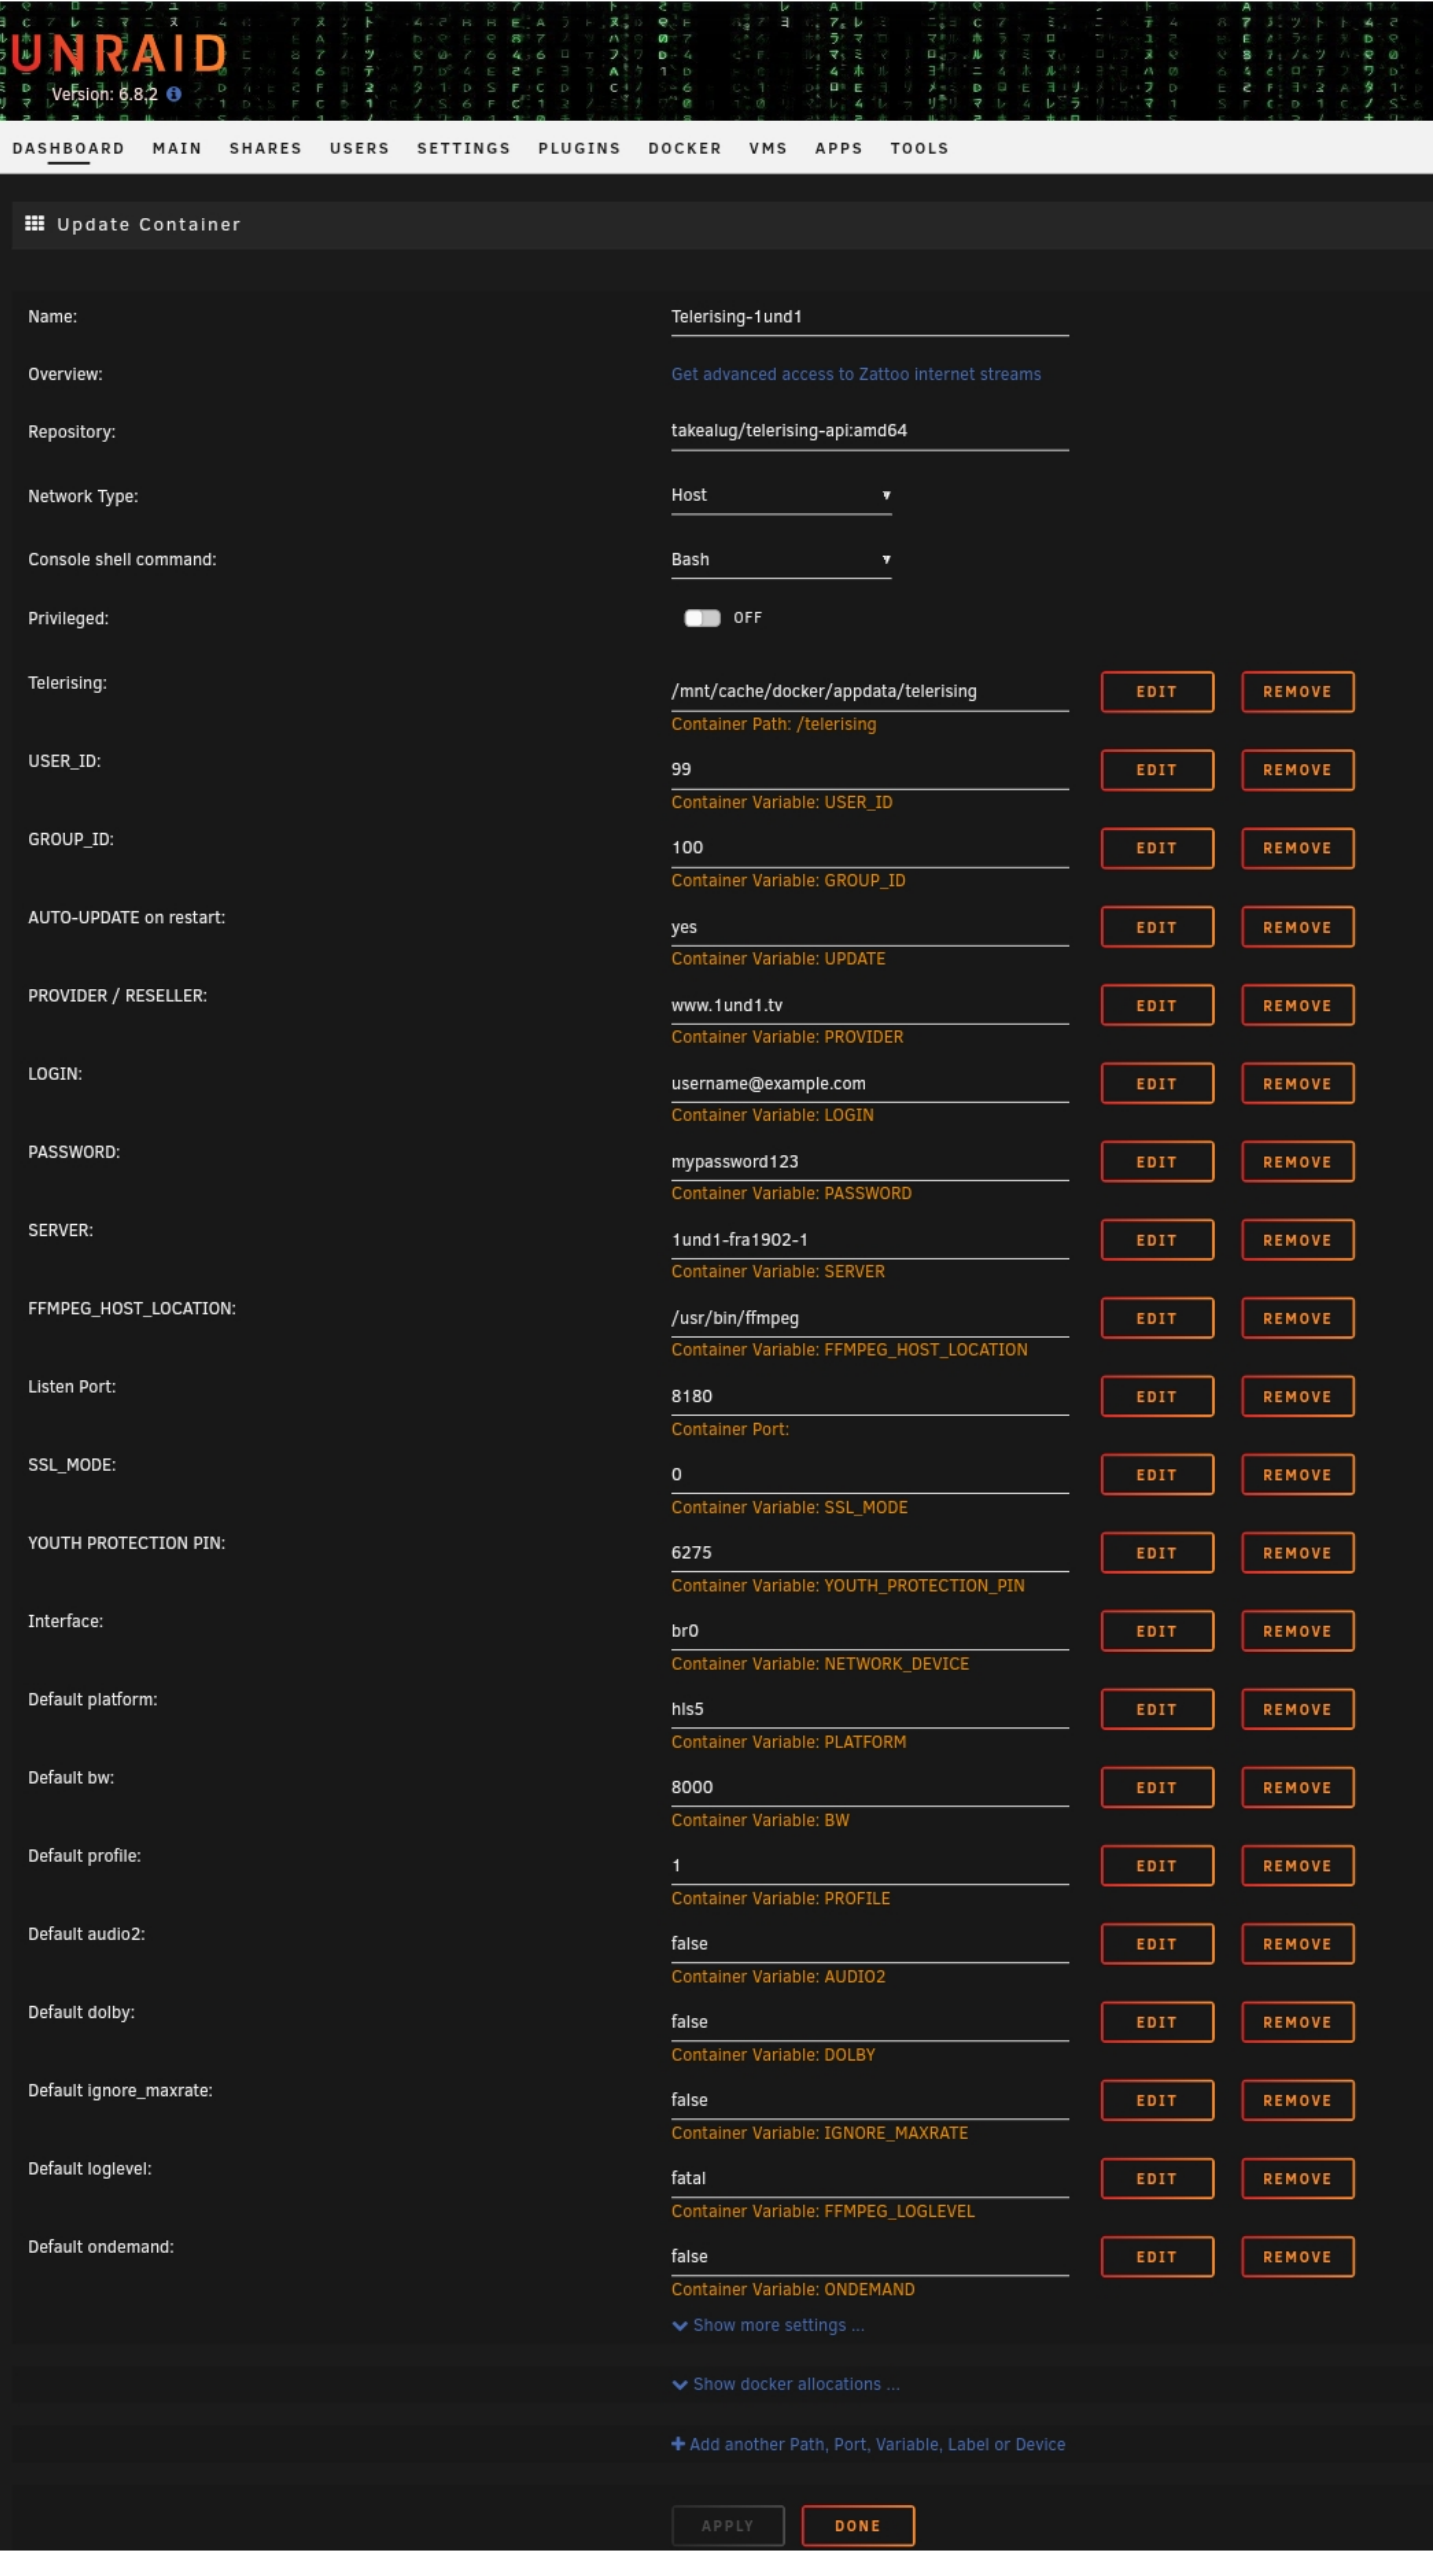
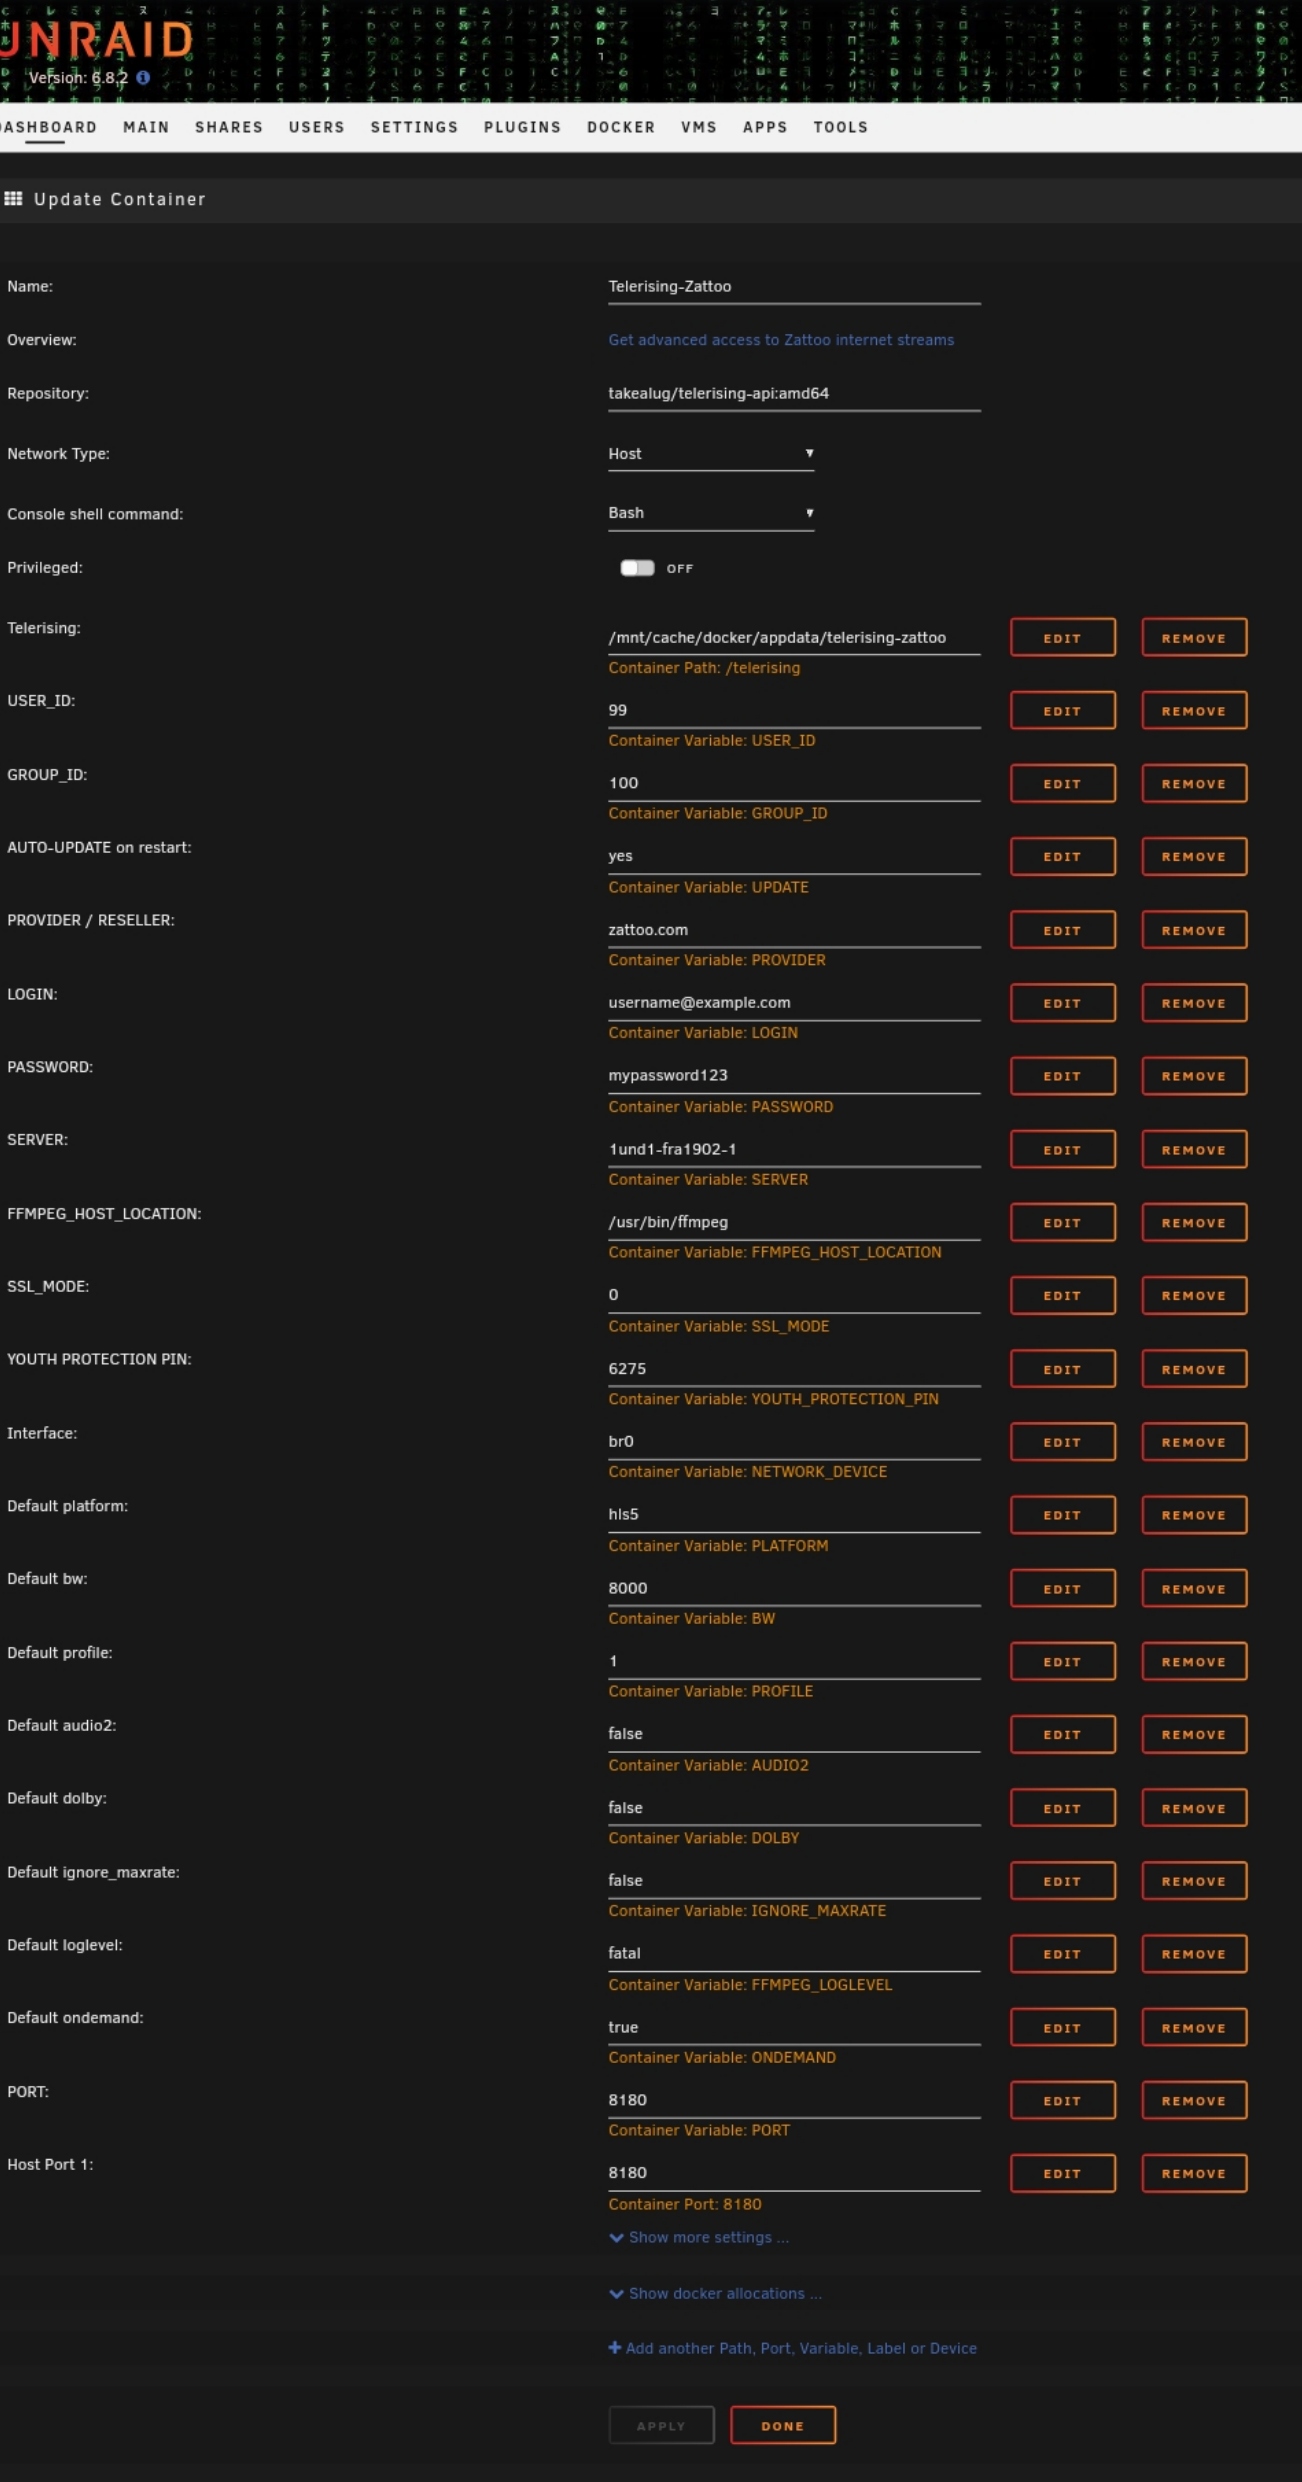
Update for API preparation to v0.3.4(3) - allow the container Telerising port to be changed

Changed region(s): [[0.0, 0.0, 1.0, 1.0], [0.768, 0.2482, 0.9524, 0.8997], [0.1229, 0.4964, 0.1536, 0.5274]]

diff --git a/README.md b/README.md
@@ -24,6 +24,7 @@ docker run \
   -e SERVER="fr5-0" \
   -e SSL_MODE="0" \
   -e NETWORK_DEVICE="eth0" \
+  -e PORT="8180" \
   -e FFMPEG_HOST_LOCATION="/usr/bin/ffmpeg" \
   -e PLATFORM="hls5" \
   -e BW="8000" \
@@ -58,7 +59,6 @@ The available parameters in detail:
 | `SERVER` | yes | [string] | fr5-0 | The Server u want to use |
 | `SSL_MODE` | yes | 0/1 | 0 | Enable / Disable SSL Verify with Provider |
 | `FFMPEG_HOST_LOCATION` | yes | [string] | /usr/bin/ffmpeg | The Path to ffmpeg on your TVH/FFMPEG-Client |
-| `-p` | yes | [integer] | 8180 | Listenport |
 | `ONDEMAND` | yes | true/false | false | Enable Video on Demand |
 
 Default Client Settings, can be overwritten by Querystrings:
@@ -79,6 +79,8 @@ Network Settings:
 | ---- | --- | --- | --- | --- |
 | `NETWORK_DEVICE` | no | [string] | eth0 | The Device listen to on (nedded for Host-Mode) |
 | `ADDRESS` | yes | [string] | --- | If you Setup an IP ADDRESS or Hostname like 192.168.0.1 or example.com, Telerising is is listen to that Setting, `NETWORK_DEVICE` will be Ignored |
+| `PORT` | yes | [integer] | 8180 | Telerising Listenport inside this Container (Hostmode)|
+| `-p` | yes | [integer] | 8180:8180 | Map Container Listenport to Host Device Listen Port (Bridge Mode)|
 | `--net` | yes | bridge/host | bridge | The Network Mode to run The Container in|
 
 > **Note:** If you plan to use VLC / tvheadend ect outside of your Docker network (e.g. 172.17.0.X) to use, you should run the container in --net = "host" and you must also enter the correct -e NETWORK_DEVICE = "XXX" of your host system.
